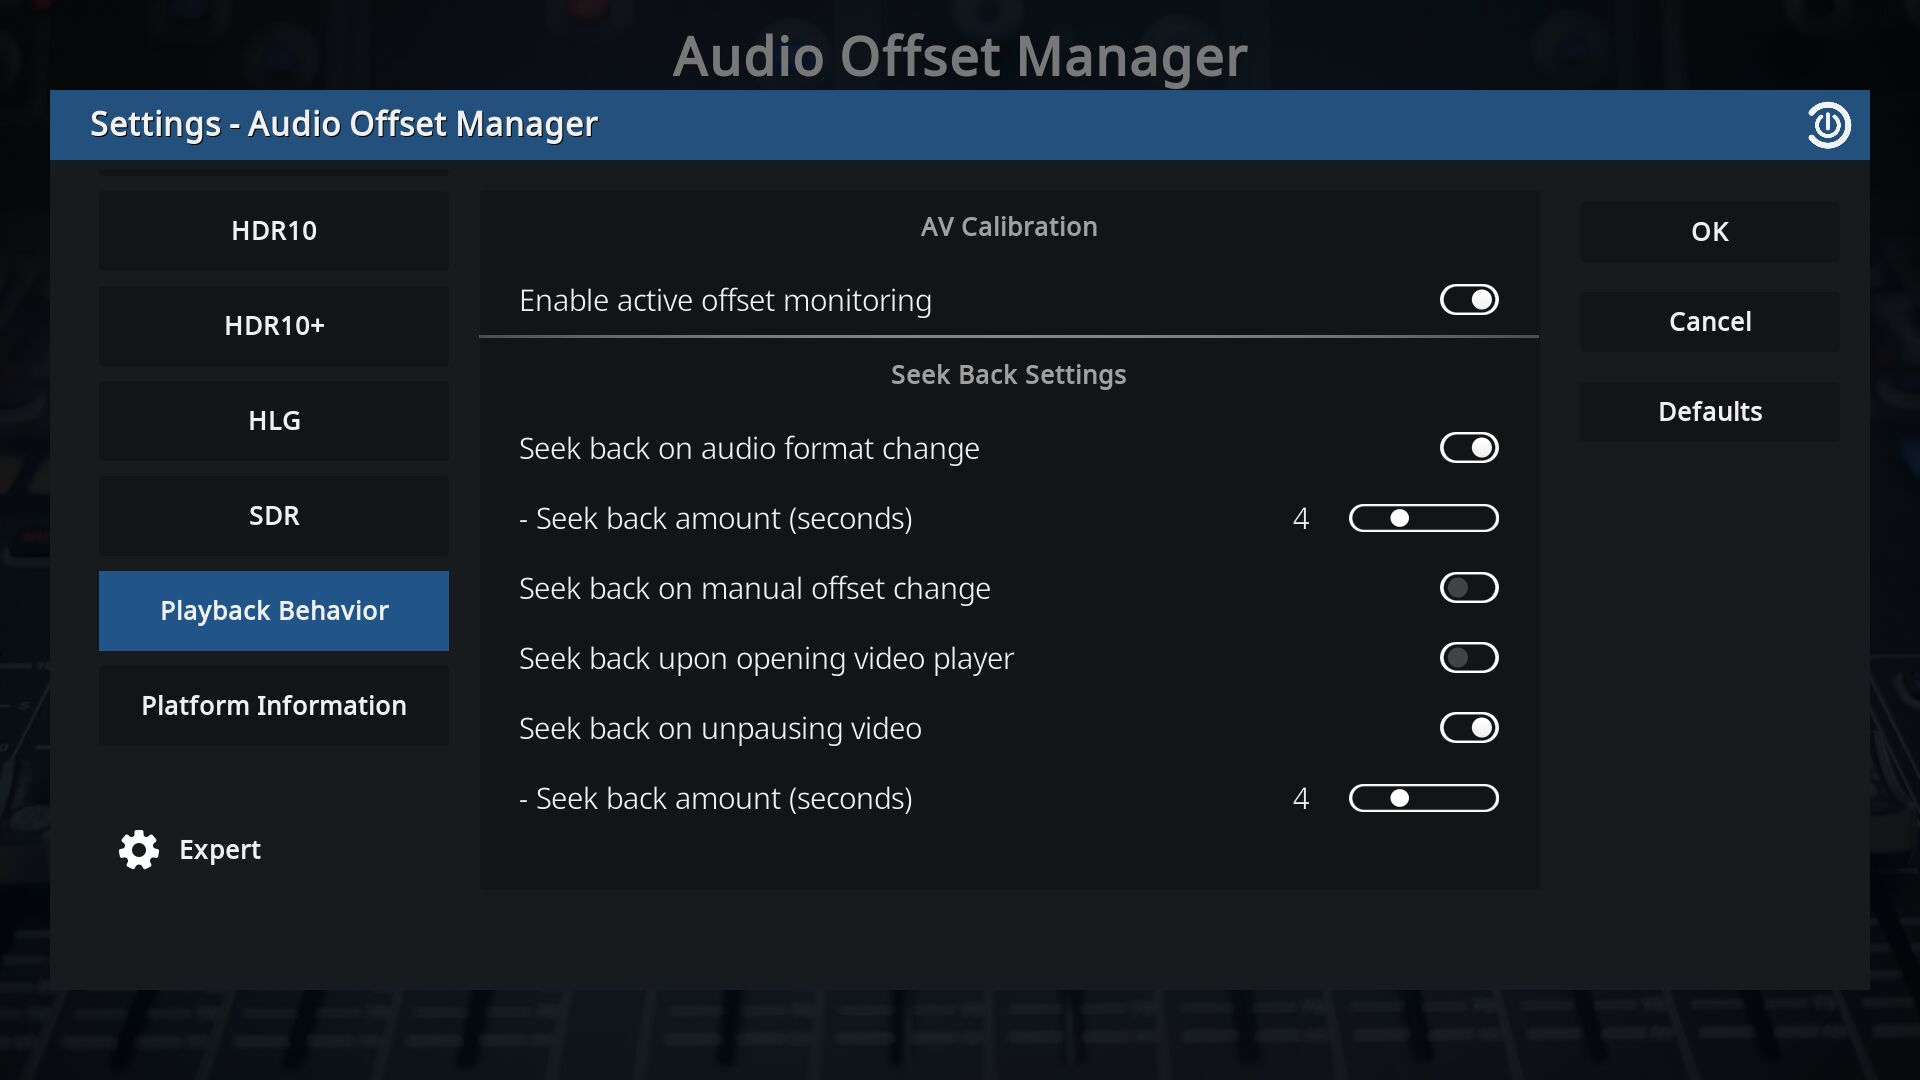
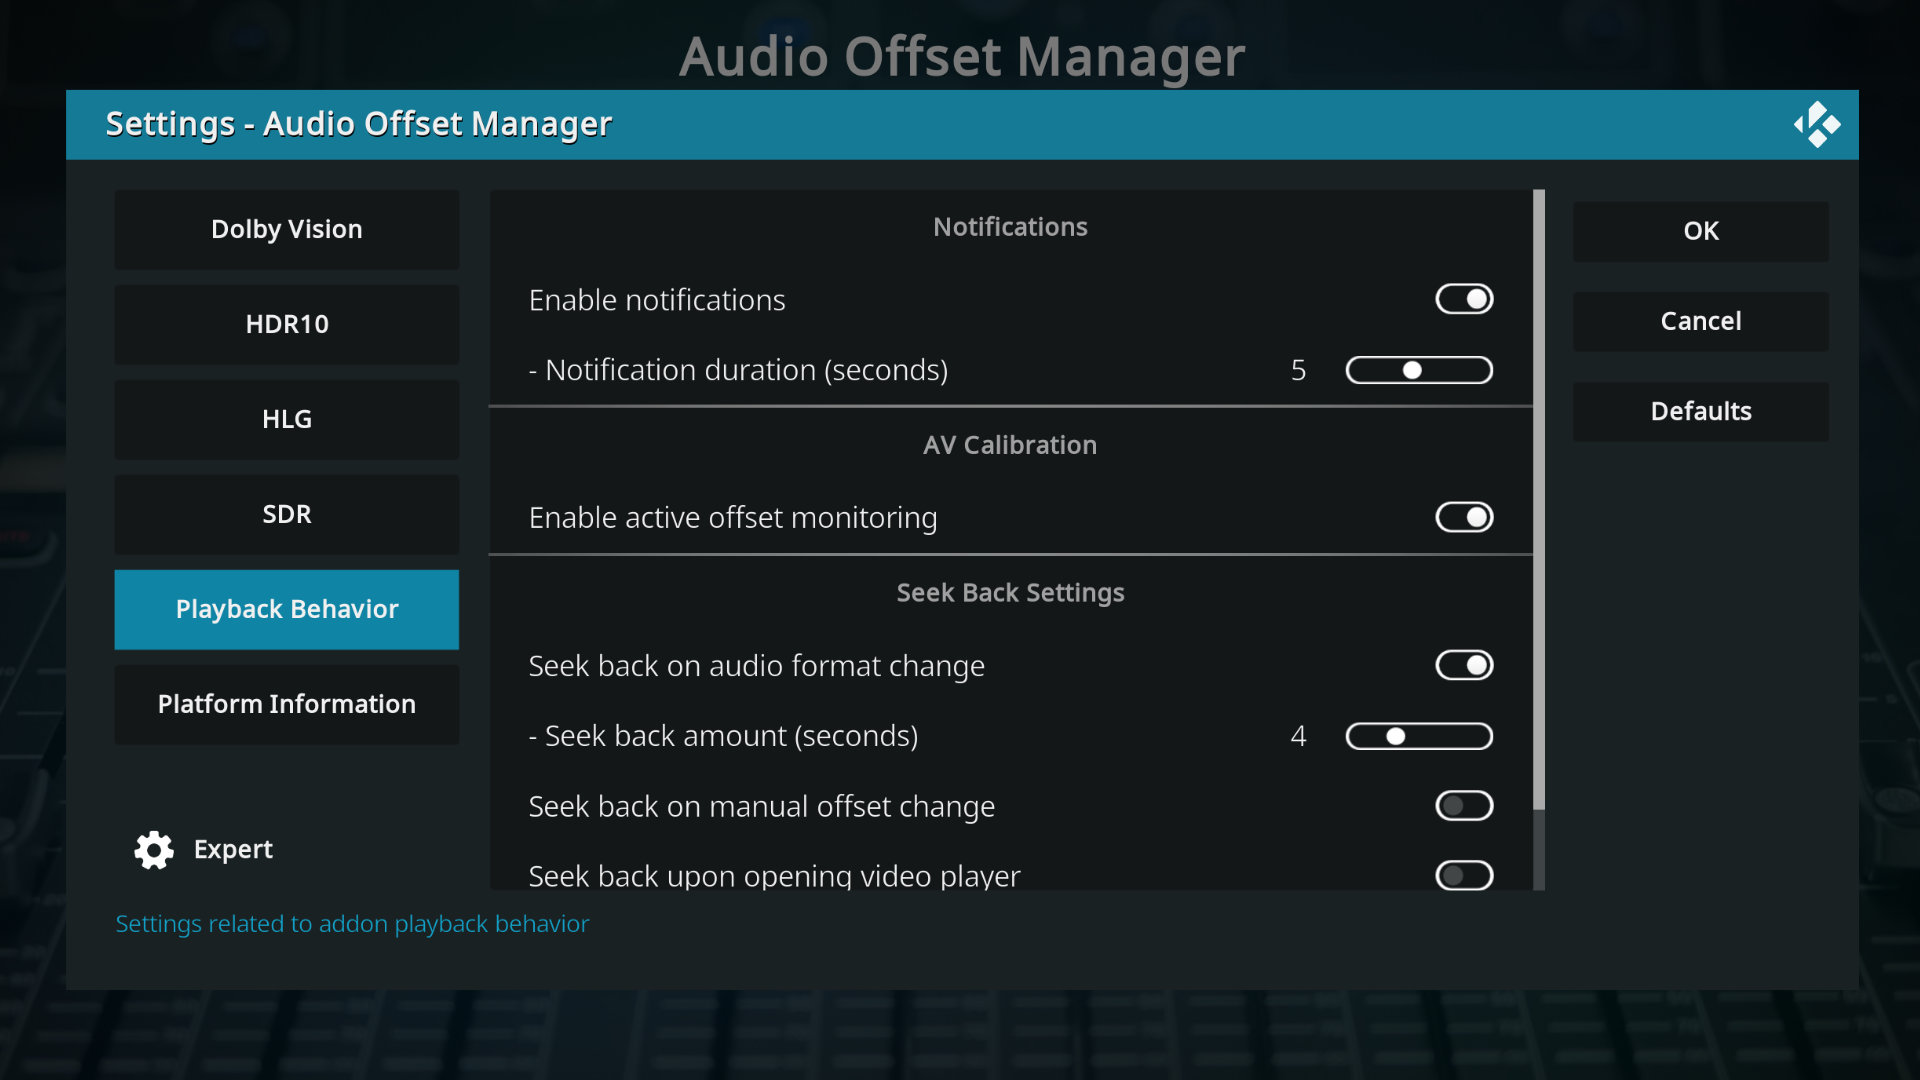
[script.audiooffsetmanager] 1.5.0

diff --git a/script.audiooffsetmanager/resources/lib/notification_handler.py b/script.audiooffsetmanager/resources/lib/notification_handler.py
@@ -1,0 +1,135 @@
+"""
+This module handles notifications for audio offset activies.
+"""
+
+import xbmc
+import xbmcaddon
+import xbmcgui
+
+
+class NotificationHandler:
+    """
+    Class for handling Kodi GUI notifications.
+    """
+    # Dictionary mapping internal audio codec names to their external names
+    AUDIO_FORMAT_NAMES = {
+        'truehd': 'TrueHD',
+        'eac3': 'DD+',
+        'ac3': 'DD',
+        'dtshd_ma': 'DTS-HD MA',
+        'dtshd_hra': 'DTS-HD HRA',
+        'dca': 'DTS',
+        'pcm': 'PCM',
+        'unknown': 'Unknown Format'
+    }
+
+    # Dictionary mapping internal HDR format names to their external names
+    HDR_TYPE_NAMES = {
+        'dolbyvision': 'DV',
+        'hdr10': 'HDR10',
+        'hdr10plus': 'HDR10+',
+        'hlg': 'HLG',
+        'sdr': 'SDR'
+    }
+
+    # Dictionary mapping internal FPS type names to their real FPS values
+    FPS_TYPE_NAMES = {
+        '23': '23.98',
+        '24': '24.00',
+        '25': '25.00',
+        '29': '29.97',
+        '30': '30.00',
+        '50': '50.00',
+        '59': '59.94',
+        '60': '60.00'
+    }
+    
+    def __init__(self, settings_manager):
+        """
+        Initialize the notification handler.
+        
+        Args:
+            settings_manager: The settings manager instance to check notification settings
+        """
+        self.settings_manager = settings_manager
+        self.addon = xbmcaddon.Addon('script.audiooffsetmanager')
+        self.addon_name = self.addon.getAddonInfo('name')
+        self.addon_icon = self.addon.getAddonInfo('icon')
+    
+    def _send_notification(self, delay_ms, stream_info, prefix):
+        """
+        Private helper method to send a notification with audio offset information.
+        
+        Args:
+            delay_ms: The audio delay in milliseconds
+            stream_info: The stream information object containing details about the current stream
+            prefix: The prefix text for the notification message (e.g., "Offset applied:" or "Offset saved:")
+        """
+        # Check if notifications are enabled in settings
+        if not self.settings_manager.get_setting_boolean('enable_notifications'):
+            return
+            
+        # Format the delay value for display
+        # Convert to appropriate format (positive = advance, negative = delay)
+        sign = "+" if delay_ms > 0 else ""
+        delay_text = f"{sign}{delay_ms} ms"
+            
+        # Get stream format information
+        hdr_type = stream_info.info['hdr_type']
+        fps_type = stream_info.info['video_fps_type']
+        audio_format = stream_info.info['audio_format']
+        
+        # Log the raw values for debugging
+        xbmc.log(f"AOM_NotificationHandler: Raw fps_type={fps_type}, type={type(fps_type)}", xbmc.LOGDEBUG)
+        
+        # Ensure fps_type is a string for dictionary lookup
+        fps_type_str = str(fps_type)
+        
+        # Get the external names for formats
+        audio_format_name = self.AUDIO_FORMAT_NAMES.get(audio_format, audio_format)
+        hdr_type_name = self.HDR_TYPE_NAMES.get(hdr_type, hdr_type)
+        fps_type_name = self.FPS_TYPE_NAMES.get(fps_type_str, f"{fps_type}")
+        
+        # Log the lookup result
+        xbmc.log(f"AOM_NotificationHandler: fps_type_str={fps_type_str}, fps_type_name={fps_type_name}", xbmc.LOGDEBUG)
+        
+        # Create notification message
+        # If fps_type is 'all', don't include it in the notification
+        if fps_type_str.lower() == 'all':
+            message = f"{prefix} {delay_text}\n{hdr_type_name} | {audio_format_name}"
+        else:
+            message = f"{prefix} {delay_text}\n{hdr_type_name} | {fps_type_name} FPS | {audio_format_name}"
+        
+        # Send notification
+        # Get notification duration from settings (in seconds) and convert to milliseconds
+        notification_duration_ms = self.settings_manager.get_setting_integer('notification_seconds') * 1000
+        xbmcgui.Dialog().notification(
+            self.addon_name,
+            message,
+            self.addon_icon,
+            notification_duration_ms
+        )
+        xbmc.log(f"AOM_NotificationHandler: {message}", xbmc.LOGDEBUG)
+    
+    def notify_audio_offset_applied(self, delay_ms, stream_info):
+        """
+        Send a notification when an audio offset is applied for the currently played video.
+        This is used when playback starts or when the audio channel changes during playback.
+        
+        Args:
+            delay_ms: The audio delay in milliseconds
+            stream_info: The stream information object containing details about the current stream
+        """
+        self._send_notification(delay_ms, stream_info, "Offset applied:")
+        
+    def notify_manual_offset_saved(self, delay_ms, stream_info):
+        """
+        Send a notification when a manual audio offset change is saved.
+        This is used when the user manually adjusts the audio offset during playback
+        and the active monitor is enabled.
+        
+        Args:
+            delay_ms: The audio delay in milliseconds
+            stream_info: The stream information object containing details about the current stream
+        """
+        self._send_notification(delay_ms, stream_info, "Offset saved:")

diff --git a/script.audiooffsetmanager/resources/lib/test_video.py b/script.audiooffsetmanager/resources/lib/test_video.py
@@ -4,6 +4,7 @@ import xbmc
 import xbmcgui
 import xbmcaddon
 import xbmcvfs
+from resources.lib.settings_manager import SettingsManager
 
 
 class TestVideoManager:
@@ -13,6 +14,7 @@ class TestVideoManager:
         self.addon = xbmcaddon.Addon()
         self.addon_path = xbmcvfs.translatePath(self.addon.getAddonInfo('path'))
         self.test_video_path = xbmcvfs.translatePath(self.addon_path + '/resources/media/test-video.mp4')
+        self.addon_icon = self.addon.getAddonInfo('icon')
 
     def play_test_video(self):
         """Play the test video for 5 seconds and return to addon settings."""
@@ -27,7 +29,7 @@ class TestVideoManager:
         # Show notification while video is playing
         xbmcgui.Dialog().notification('Audio Offset Manager',
                                     'Please wait...',
-                                    xbmcgui.NOTIFICATION_INFO, 10000)
+                                    self.addon_icon, 10000)
 
         # Wait for 5 seconds
         xbmc.sleep(5000)
@@ -38,7 +40,38 @@ class TestVideoManager:
         # Show success notification
         xbmcgui.Dialog().notification('Audio Offset Manager',
                                     'Success! Test video completed',
-                                    xbmcgui.NOTIFICATION_INFO, 10000)
+                                    self.addon_icon, 10000)
 
         # Open addon settings
         xbmc.executebuiltin('Addon.OpenSettings(script.audiooffsetmanager)')
+        
+    def bypass_test_video(self):
+        """Bypass the test video by setting new_install to false and refreshing settings."""
+        try:
+            # Get the settings
+            settings = self.addon.getSettings()
+            
+            # Use direct setting function to avoid cache issues
+            settings.setBool('new_install', False)
+            
+            # Force reload of the settings manager singleton to ensure synchronization
+            settings_manager = SettingsManager()
+            settings_manager.reload_if_needed()
+            
+            xbmc.log("AOM_TestVideoManager: Successfully bypassed test video requirement", xbmc.LOGINFO)
+            # Show success notification
+            xbmcgui.Dialog().notification('Audio Offset Manager',
+                                        'Test video requirement bypassed',
+                                        self.addon_icon, 3000)
+            
+            # Add a small delay to ensure settings are saved before reopening
+            xbmc.sleep(500)
+            
+            # Re-open addon settings to refresh them
+            xbmc.executebuiltin('Addon.OpenSettings(script.audiooffsetmanager)')
+        except Exception as e:
+            xbmc.log(f"AOM_TestVideoManager: Failed to bypass test video requirement: {str(e)}", xbmc.LOGWARNING)
+            # Show error notification
+            xbmcgui.Dialog().notification('Error',
+                                        'Failed to bypass test video',
+                                        xbmcgui.NOTIFICATION_ERROR, 3000)

diff --git a/script.audiooffsetmanager/resources/lib/offset_manager.py b/script.audiooffsetmanager/resources/lib/offset_manager.py
@@ -7,6 +7,7 @@ import json
 from resources.lib.settings_manager import SettingsManager
 from resources.lib.stream_info import StreamInfo
 from resources.lib.active_monitor import ActiveMonitor
+from resources.lib.notification_handler import NotificationHandler
 
 
 class OffsetManager:
@@ -14,6 +15,7 @@ class OffsetManager:
         self.event_manager = event_manager
         self.stream_info = StreamInfo()
         self.settings_manager = SettingsManager()
+        self.notification_handler = NotificationHandler(self.settings_manager)
         self.active_monitor = None
 
     def start(self):
@@ -22,7 +24,8 @@ class OffsetManager:
             'AV_STARTED': self.on_av_started,
             'ON_AV_CHANGE': self.on_av_change,
             'PLAYBACK_STOPPED': self.on_playback_stopped,
-            'PLAYBACK_ENDED': self.on_playback_stopped
+            'PLAYBACK_ENDED': self.on_playback_stopped,
+            'USER_ADJUSTMENT': self.on_user_adjustment
         }
         for event, callback in events.items():
             self.event_manager.subscribe(event, callback)
@@ -33,7 +36,8 @@ class OffsetManager:
             'AV_STARTED': self.on_av_started,
             'ON_AV_CHANGE': self.on_av_change,
             'PLAYBACK_STOPPED': self.on_playback_stopped,
-            'PLAYBACK_ENDED': self.on_playback_stopped
+            'PLAYBACK_ENDED': self.on_playback_stopped,
+            'USER_ADJUSTMENT': self.on_user_adjustment
         }
         for event, callback in events.items():
             self.event_manager.unsubscribe(event, callback)
@@ -51,6 +55,20 @@ class OffsetManager:
         """Handle playback stopped event."""
         self.stream_info.clear_stream_info()
         self.stop_active_monitor()
+        
+    def on_user_adjustment(self):
+        """Handle user adjustment event (manual offset change)."""
+        # Only send notification if active monitor is enabled
+        if self.active_monitor is not None:
+            # Get the current audio delay from settings
+            stream_info = self.stream_info.info
+            setting_id = self._get_setting_id(stream_info)
+            delay_ms = self.settings_manager.get_setting_integer(setting_id)
+            
+            # Send notification about the manual offset change
+            self.notification_handler.notify_manual_offset_saved(delay_ms, self.stream_info)
+            xbmc.log(f"AOM_OffsetManager: Notified user about manual offset change to {delay_ms}ms",
+                     xbmc.LOGDEBUG)
 
     def _handle_av_event(self):
         """Common handler for AV-related events."""
@@ -132,6 +150,13 @@ class OffsetManager:
             else:
                 xbmc.log(f"AOM_OffsetManager: Audio offset set to "
                          f"{delay_seconds} seconds", xbmc.LOGDEBUG)
+                
+                # Convert seconds to milliseconds for notification
+                delay_ms = int(delay_seconds * 1000)
+                
+                # Send notification for automatic offset application
+                # This is only called for automatic offset application (not manual adjustments)
+                self.notification_handler.notify_audio_offset_applied(delay_ms, self.stream_info)
         except Exception as e:
             xbmc.log(f"AOM_OffsetManager: Error setting audio delay: {str(e)}",
                      xbmc.LOGERROR)

diff --git a/script.audiooffsetmanager/resources/lib/script_handler.py b/script.audiooffsetmanager/resources/lib/script_handler.py
@@ -9,10 +9,16 @@ from resources.lib.test_video import TestVideoManager
 
 def handle_script_call():
     """Handle the main script functionality."""
-    if len(sys.argv) > 1 and sys.argv[1] == 'play_test_video':
-        test_video = TestVideoManager()
-        test_video.play_test_video()
-    else:
-        # Open addon settings when no specific argument is provided
-        addon = xbmcaddon.Addon()
-        addon.openSettings()
+    if len(sys.argv) > 1:
+        if sys.argv[1] == 'play_test_video':
+            test_video = TestVideoManager()
+            test_video.play_test_video()
+            return
+        elif sys.argv[1] == 'bypass_test_video':
+            test_video = TestVideoManager()
+            test_video.bypass_test_video()
+            return
+    
+    # Open addon settings when no specific argument is provided or for unrecognized arguments
+    addon = xbmcaddon.Addon()
+    addon.openSettings()

diff --git a/script.audiooffsetmanager/README.md b/script.audiooffsetmanager/README.md
@@ -45,6 +45,8 @@ This addon streamlines your viewing experience by automating the process of audi
 ### FPS Types
 23.98, 24, 25, 29.97, 30, 50, 59.94, 60
 
+<img src="https://raw.githubusercontent.com/matthane/script.audiooffsetmanager/refs/heads/main/resources/screenshot-3.jpg" width="100%" alt="Audio Offset Manager screenshot 3">
+
 ## Installation and Usage
 
 1. Download the addon from the Kodi repository or install it manually.